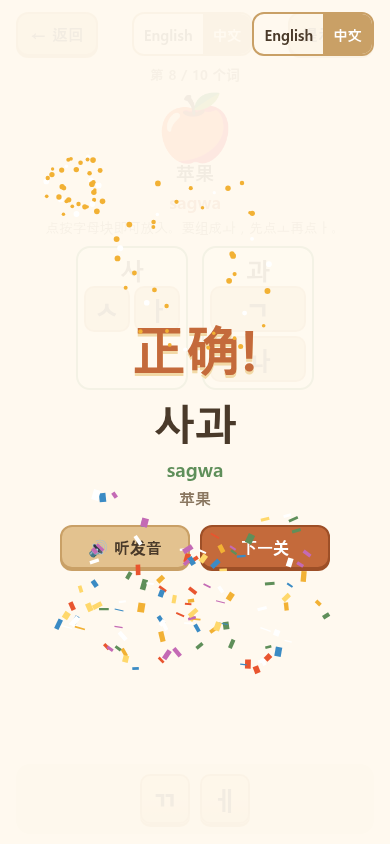
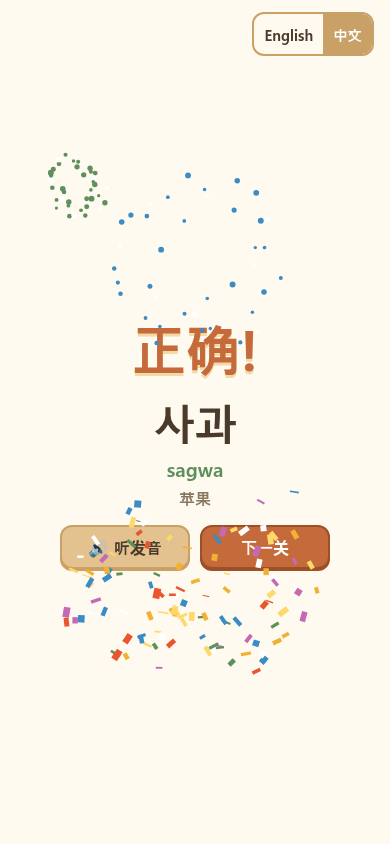
Make correct-answer overlay opaque so the puzzle does not show through

diff --git a/css/style.css b/css/style.css
@@ -66,7 +66,7 @@ button{font:inherit;color:inherit;cursor:pointer}
 .theme-title{text-align:center;margin:6px 0}
 .wordno{text-align:center;color:var(--muted);font-size:.85rem;font-weight:600}
 .topbar .btn{padding:8px 12px}
-.celebrate{position:fixed;inset:0;z-index:50;background:rgba(255,250,240,.93);display:flex;flex-direction:column;padding:12px 16px calc(16px + env(safe-area-inset-bottom));animation:fadein .2s}
+.celebrate{position:fixed;inset:0;z-index:50;background:#fffaf0;display:flex;flex-direction:column;padding:12px 16px calc(16px + env(safe-area-inset-bottom));animation:fadein .2s}
 .cel-body{flex:1;display:flex;flex-direction:column;align-items:center;justify-content:center;text-align:center;gap:6px}
 .celebrate .big{font-size:3.4rem;line-height:1.1;font-weight:900;color:var(--accent);text-shadow:0 3px 0 #f2d9a6;animation:pop .45s cubic-bezier(.2,1.6,.4,1)}
 .celebrate .ko{font-size:2.6rem;font-weight:800;margin-top:10px}
